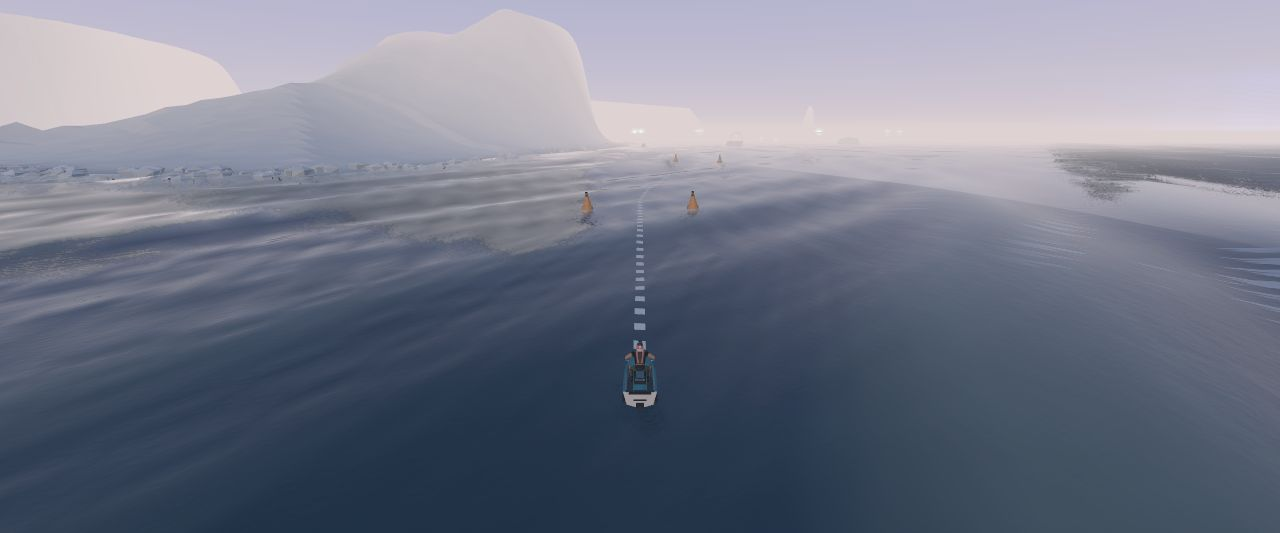
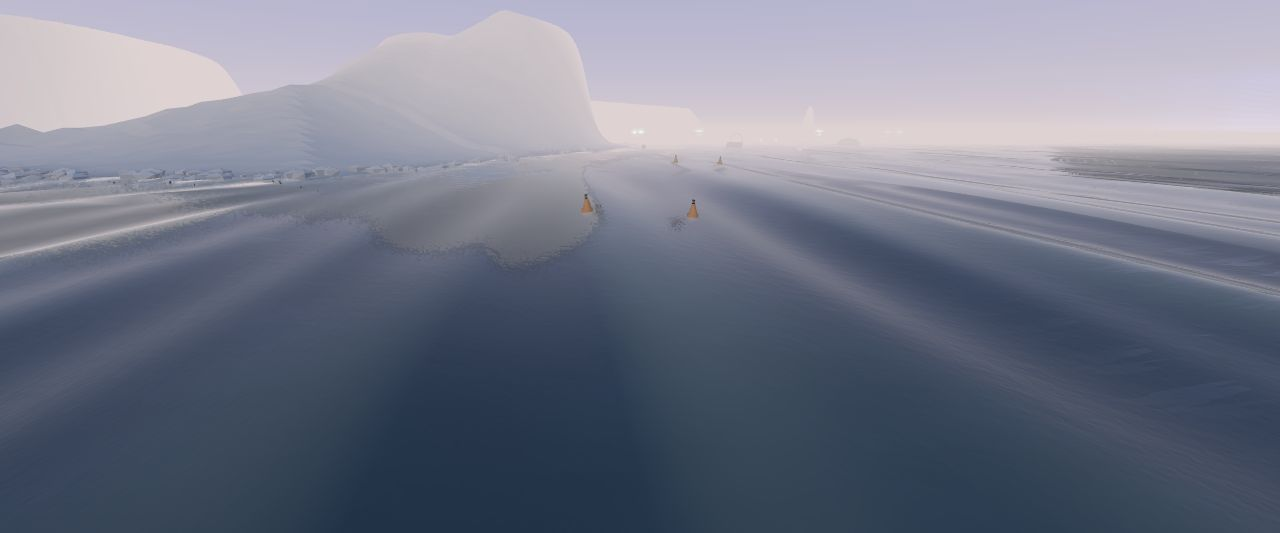
fix(pwa): photograph the coasts with nobody on the water, and draw the restart mark whole (#204)

diff --git a/pwa/src/game/renderer.ts b/pwa/src/game/renderer.ts
@@ -167,6 +167,25 @@ export type GameRenderer = {
 export function createRenderer(
   canvas: HTMLCanvasElement,
   initialVideo: VideoSettings = DEFAULT_VIDEO,
+  /** WHETHER THE PLAYER IS IN THE PICTURE AT ALL — his hull and the rider on
+   * it, the lamps it carries and the pool they throw, the trail it lays in
+   * the map, the spray it throws, and both guides drawn for him. False draws
+   * the world with nobody on it.
+   *
+   * It draws less; it does not SIMULATE less. The run is stood up, stepped
+   * and ridden exactly as it would be — the camera is still the chase rig on
+   * his hull, so the frame is still the water a rider would be looking at —
+   * and the sea still carries the wash he is laying in it, because that is
+   * the engine's water and not a mark on a map.
+   *
+   * TAKEN AT THE BUILD AND NEVER AFTERWARDS, because the `?player=0` behind
+   * it is read once off the URL (`url-params.ts`) and no surface can move
+   * it. A setter would have to answer what becomes of the trail already in
+   * the map and the spray already in the air halfway through a run; an
+   * argument cannot be asked the question. It belongs to the coast banners
+   * (`make coasts`), where the subject is the SHORE and a craft in frame is
+   * the wrong thing to be looking at. */
+  playerShown = true,
 ): GameRenderer {
   let video = initialVideo;
   const renderer = new THREE.WebGLRenderer({
@@ -241,6 +260,25 @@ export function createRenderer(
    * built ONCE here and re-added to each world rather than torn down with
    * the shore. */
   const guide: GuideLine = createGuideLine();
+  /** What the HUD's own switch last asked of the two guides. Both are
+   * readouts drawn for a rider who is IN the picture, so each answers to the
+   * AND of that switch and `playerShown` — remembered here rather than read
+   * back off the guides, because the HUD's switch moves at any time and must
+   * not forget what the other half said.
+   *
+   * EACH STARTS AT ITS OWN GUIDE'S DEFAULT — the line shown, the missed
+   * arrow not — so the apply below writes back exactly what the pair already
+   * held and the only thing it can change is the player's own gate. Starting
+   * both at false instead would take the line off for the frames between the
+   * renderer being built and the app's first `setGuide`, which is a window
+   * nobody asked to close. */
+  let guideAsked = true;
+  let missedAsked = false;
+  const applyGuides = (): void => {
+    guide.setShown(guideAsked && playerShown);
+    missedGuide.setShown(missedAsked && playerShown);
+  };
+  applyGuides();
   let craft: THREE.Group | null = null;
   let rider: Rider | null = null;
   /** THE FIELD, drawn: one hull and one rider per rival, posed off the
@@ -562,8 +600,11 @@ export function createRenderer(
     if (craft) {
       craft.position.set(c.x, c.y, c.z);
       craft.quaternion.set(c.q.x, c.q.y, c.q.z, c.q.w);
+      // The rider and the lamps are children of the hull, so one flag takes
+      // the whole machine out of the frame.
+      craft.visible = playerShown;
     }
-    rider?.update(state);
+    if (playerShown) rider?.update(state);
     for (const f of field) {
       const rc = f.run.craft;
       f.group.position.set(rc.x, rc.y, rc.z);
@@ -614,7 +655,7 @@ export function createRenderer(
     // …and where the hull's cockpit stands this frame, so the sea is not
     // drawn inside it. Before the water's own update, like everything else
     // it has to be told before it draws.
-    water.setWell(craft ? wellCut : null, c);
+    water.setWell(craft && playerShown ? wellCut : null, c);
     cost.waterMs = water.update(state, c.x, c.z, frustum);
     gates?.update(state, camera);
     edgeNet?.update(state, dt);
@@ -679,7 +720,10 @@ export function createRenderer(
     // and the water reads the headlamp off the very spotlight the hull is
     // lit by.
     if (lamps) {
-      lamps.setLit(p.lamps, 1 - dayLight(p));
+      // A hull nobody can see throws no beam: the pool on the water is the
+      // one piece of the lamps that is not a child of the hull, so a night
+      // coast would otherwise be lit by a craft that is not in the picture.
+      lamps.setLit(playerShown ? p.lamps : 0, 1 - dayLight(p));
       // …and their own hardware is put away when the frame is drawn from a
       // lens bolted to the craft, because every piece of it is in front of
       // that lens rather than in front of the viewer. The beam is not: the
@@ -799,13 +843,24 @@ export function createRenderer(
     load,
     resize,
     setVideo,
-    setGuide: guide.setShown,
-    setMissedGuide: missedGuide.setShown,
+    setGuide: (on) => {
+      guideAsked = on;
+      applyGuides();
+    },
+    setMissedGuide: (on) => {
+      missedAsked = on;
+      applyGuides();
+    },
     setGhost,
     observe: (state) => {
-      wake.observe(state);
-      spray.observe(state);
-      rider?.observe(state);
+      // Nothing is laid for a player who is not in the picture — the trail
+      // and the spray are his, and a wake behind nobody is worse than no
+      // wake. The field and the ghost are unaffected: this is the PLAYER's.
+      if (playerShown) {
+        wake.observe(state);
+        spray.observe(state);
+        rider?.observe(state);
+      }
       for (const f of field) f.rider.observe(f.run);
       // The ghost's body is on springs like everybody else's; its hull is
       // not given the wake or the spray, because a trail cut by a craft

diff --git a/pwa/src/game/url-params.ts b/pwa/src/game/url-params.ts
@@ -75,6 +75,13 @@
 //                  probe (game/video-probe.ts) is what may promote an
 //                  untouched picture to HIGH, and a lab photographing a
 //                  surface must not have a row move under its camera
+//   ?player=0      leave the PLAYER off the water — his hull, the rider on
+//                  it, its lamps, the trail it lays, the spray it throws and
+//                  the guide line drawn for him. The run is ridden exactly as
+//                  it would be; nothing about it is simply in the picture.
+//                  The coast banners' switch (`make coasts`): a shore row is
+//                  a photograph of a COAST, and one craft on it is both the
+//                  wrong subject and the wrong shore's craft
 //
 
 import {
@@ -185,6 +192,14 @@ export type Params = {
   /** Whether the first-visit probe may run — false only when the URL says
    * `probe=0`, which is the labs' word for "hold the picture still". */
   probe: boolean;
+  /** Whether the PLAYER is in the picture — his craft, his rider, and
+   * everything drawn for him or left behind by him. False only when the URL
+   * says `player=0`, which is the banner lab's word for "photograph the
+   * coast, not the ride". It takes nothing off the RUN: the hull is still
+   * there, still ridden, still laying a wash in the water the sea carries —
+   * it is simply not drawn, so the camera still frames the water a rider
+   * would be on. */
+  player: boolean;
 };
 
 /** A figure off a link, held inside the travel the row that stores it has —
@@ -283,6 +298,7 @@ export function readParams(search: string): Params {
         ? { page: menu }
         : null,
     probe: p.get("probe") !== "0",
+    player: p.get("player") !== "0",
   };
 }
 

diff --git a/pwa/src/game/hud-actions.tsx b/pwa/src/game/hud-actions.tsx
@@ -36,10 +36,22 @@ import { createHudPress, pressHandlers } from "./hud-press.ts";
 import { STRINGS } from "./strings.ts";
 
 /** The reset mark: an arrow curling back on itself, which is what this does
- * to a run. */
+ * to a run.
+ *
+ * THE BOX IS CUT ROUND THE STROKE, not round the line it is stroked on —
+ * which is the one thing this mark and the camera below it do differently,
+ * because this is the only one of the two that is stroked at all. The arc is
+ * drawn at width 11, so its ink stands 5.5 outside the path on every side:
+ * the sweep reaches x 84.03 and y 86.46, where its centreline stops at 78.53
+ * and 80.96. Cut the box to the centreline and the ring is sliced flat down
+ * its right-hand side and across its foot — and an SVG's default
+ * `overflow: hidden` TRIMS rather than shrinks, so the mark does not look
+ * too big, it looks like a different drawing. The arrowhead is filled with
+ * no stroke on it and reaches x = 8, which is why the left edge alone is
+ * flush with the box. */
 function ResetGlyph() {
   return (
-    <svg class="hud-glyph" viewBox="8 22 70.6 59" aria-hidden="true">
+    <svg class="hud-glyph" viewBox="8 19.4 76.1 67.1" aria-hidden="true">
       <path
         d="M 24 44 A 28 28 0 1 1 30 72"
         fill="none"

diff --git a/pwa/src/App.tsx b/pwa/src/App.tsx
@@ -336,7 +336,7 @@ export function App() {
       settingsRef.current.keys,
     );
     inputRef.current = input;
-    const renderer = renderKit.createRenderer(canvas, settingsRef.current.video);
+    const renderer = renderKit.createRenderer(canvas, settingsRef.current.video, params.player);
     renderer.setMissedGuide(settingsRef.current.hud.on && hudOver(shellRef.current));
     rendererRef.current = renderer;
     const audio = createRunAudio();

diff --git a/docs/configuration.md b/docs/configuration.md
@@ -37,9 +37,10 @@ The running game reads its whole situation off the URL, which is what makes a le
 | `splash`   | `0` clears the attract card off an ordinary visit (what the developer page's repro links carry); `1` forces it back on.                                                                                                                                                                                                                                                                                                                                                                                                                                                                                                                                                                                                                                                                                                                                                                                                                                                                                                                                                                                            |
 | `menu`     | Open the front door ON a page: `root`, `campaign` (the ladder), `levels` (which pinned shore a race, a tricks run or a time trial is on), `start` (the seed and the day, FREE's own), `craft`, `options`, `keys` (the bindings, behind OPTIONS), `developer`, `unlocks` (the campaign's shores opened or shut by hand, behind DEVELOPER) or `benchHistory` (the benchmark's list, behind DEVELOPER). The last three let the developer menu out with them — a URL that names a page has, by definition, found it. `campaign` and `levels` both open on their COAST step, the row of shore banners; there is no parameter for a shore's own grid, which is one press past it.                                                                                                                                                                                                                                                                                                                                                                                                                                        |
 | `probe`    | `0` skips the first-visit probe on this visit — the two seconds under the attract card that measure the machine and may hand an untouched picture the HIGH stops of WATER, DETAIL and DISTANCE. The labs carry it so a row never moves under the camera; a link has no reason to.                                                                                                                                                                                                                                                                                                                                                                                                                                                                                                                                                                                                                                                                                                                                                                                                                                  |
+| `player`   | `0` leaves the player off the water: his hull, the rider on it, the lamps it carries, the trail it lays, the spray it throws and the guide line drawn ahead of him. It changes nothing about the RUN — the craft is still there and still ridden, the chase camera still frames the water from it, and the sea still carries the wash it is laying — so what comes back is the same frame with nobody in it. The coast banners carry it (`make coasts`), because a shore row is a photograph of a COAST and a craft in the middle of one is the wrong subject; nothing in the game turns it.                                                                                                                                                                                                                                                                                                                                                                                                                                                                                                                       |
 | `update`   | `1` shows the new-build button as if a newer build were waiting — the only way to look at it before a deploy has landed on a device that already had the app. It stands over a run and over the front door alike, in the same bottom-right corner. The second press reloads the page.                                                                                                                                                                                                                                                                                                                                                                                                                                                                                                                                                                                                                                                                                                                                                                                                                              |
 
-A URL that names a RUN (`start`, `scene`, `shot`, `paused`) boots into one, past the attract card and the front door. Anything else opens the front door, with the URL's seed, craft, time, day, weather and picture rows as the settings it is standing on — so a link decides what RIDE rides without deciding that it has already been pressed. Every one of these except `update` is a row on the start card, the level card, the craft card, the options page or the developer page. COPY REPRO LINK writes back what decides the RUN — the seed, the craft, the day and the developer's own overrides; the picture rows are a fact about the machine reading the link rather than about the frame, so they are left to whoever opens it. `scripts/screenshot.mjs` and `scripts/profile-render.mjs` both take them as flags (`--water`, `--res`, `--detail`, `--see`, `--fps`), which is how a picture ladder is looked at and metered one stop at a time; the screenshot tool takes `--camera` the same way.
+A URL that names a RUN (`start`, `scene`, `shot`, `paused`) boots into one, past the attract card and the front door. `player` is the one row here that no surface can put back: it is read once, on the way in, because a card that could return the craft mid-visit would be a card the banner lab has to steer around. Anything else opens the front door, with the URL's seed, craft, time, day, weather and picture rows as the settings it is standing on — so a link decides what RIDE rides without deciding that it has already been pressed. Every one of these except `update` is a row on the start card, the level card, the craft card, the options page or the developer page. COPY REPRO LINK writes back what decides the RUN — the seed, the craft, the day and the developer's own overrides; the picture rows are a fact about the machine reading the link rather than about the frame, so they are left to whoever opens it. `scripts/screenshot.mjs` and `scripts/profile-render.mjs` both take them as flags (`--water`, `--res`, `--detail`, `--see`, `--fps`), which is how a picture ladder is looked at and metered one stop at a time; the screenshot tool takes `--camera` the same way.
 
 The debug switch the spec asks for (§19.3) is the dev build: `npm run dev` lifts the engine's `debug`-level output onto the console through `pwa/src/output-bridge.ts`, and the same lines are kept in an in-memory ring buffer every build can read back.
 

diff --git a/.changes/unreleased/1789845481-coast-banners-without-a-rider.md b/.changes/unreleased/1789845481-coast-banners-without-a-rider.md
@@ -1,0 +1,6 @@
+---
+type: Changed
+title: The coast pictures on the shore rows are of the coast alone
+---
+
+The banner behind every shore row on the CAMPAIGN and RACE cards no longer has a craft parked in the middle of it, or the guide line's dashes running away from it. The row is asking which COAST, and a hull in the frame answered a different question: it was one arbitrary craft the picker was not choosing there, and it dragged a HUD readout — a dashed line down the middle of the water — into a picture that is meant to be a place. The shot is the same shot otherwise: the same shore, the same hour, the same light, the same lens.

diff --git a/.changes/unreleased/1789845482-restart-mark-drawn-whole.md b/.changes/unreleased/1789845482-restart-mark-drawn-whole.md
@@ -1,0 +1,6 @@
+---
+type: Fixed
+title: The restart mark over the water is drawn whole
+---
+
+The arrow curling back on itself, on the left of the two round presses above the minimap, was clipped: its ring was sliced flat down the right-hand side and across the foot. Its box had been cut round the line the arc is drawn ON rather than round the stroke, which stands 5.5 units outside that line on every side — so the mark was trimmed rather than shrunk, and it now reads as the closed ring it was drawn as.
